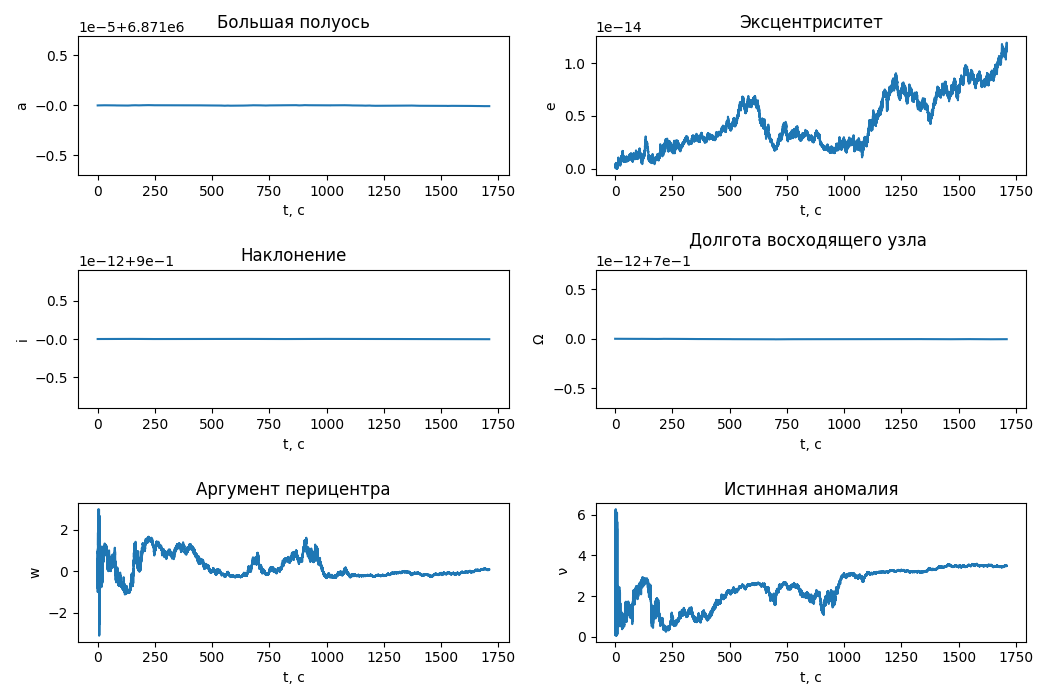
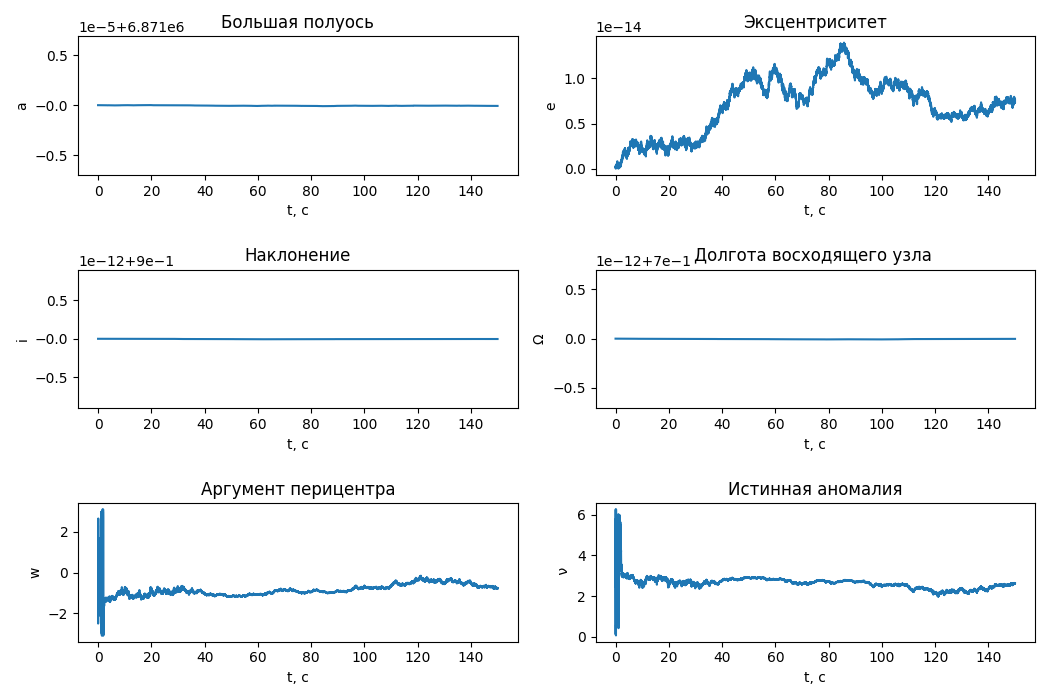
grafics added

diff --git a/no_flywheel/grafics.py b/no_flywheel/grafics.py
@@ -102,7 +102,29 @@ def start_plot(orbit: Orbit, rotation: Rotation, first_integrals: First_integral
     plot_subplot(326, orbit.result_t, orbit.result_nu, 'Истинная аномалия', 't, c', ' ν')
     save_and_close_plot(fig_elements, 'result/result_elements.png')
 
+    # Графики угловой скорости ССК относительно ОСК
+    fig_W_rel = plt.figure(figsize=(10.5, 7))
+    plot_subplot(221, rotation.result_t, rotation.result_W_rel[:, 0],
+                 'Проекция угловой скорости ССК относительно ОСК на Оx', 't, c', 'x')
+    plot_subplot(222, rotation.result_t, rotation.result_W_rel[:, 1],
+                 'Проекция угловой скорости ССК относительно ОСК на Оy', 't, c', 'y')
+    plot_subplot(223, rotation.result_t, rotation.result_W_rel[:, 2],
+                 'Проекция угловой скорости ССК относительно ОСК на Оz', 't, c', 'z')
+    save_and_close_plot(fig_W_rel, 'result/result_W_rel.png')
+
+    # Графики Кватерниона A (из ОСК в ССК)
+    fig_A = plt.figure(figsize=(10.5, 7))
+    plot_subplot(221, rotation.result_t, rotation.result_A[:, 0],
+                 'Скалярная часть кватерниона A(из ОСК в ССК)', 't, c', 'a')
+    plot_subplot(222, rotation.result_t, rotation.result_A[:, 1],
+                 'Векторная компонента i кватерниона A(из ОСК в ССК)', 't, c', 'i')
+    plot_subplot(223, rotation.result_t, rotation.result_A[:, 2],
+                 'Векторная компонента j кватерниона A(из ОСК в ССК)', 't, c', 'j')
+    plot_subplot(224, rotation.result_t, rotation.result_A[:, 3],
+                 'Векторная компонента k кватерниона A(из ОСК в ССК)', 't, c', 'k')
+    save_and_close_plot(fig_A, 'result/result_A.png')
+
     # Cтроим орбиту
-    orbit_plot(orbit=orbit)
+    #orbit_plot(orbit=orbit)
 
 

diff --git a/no_flywheel/src/rotation.py b/no_flywheel/src/rotation.py
@@ -8,6 +8,9 @@ class Rotation:
     result_Q = None
     result_t = None
 
+    result_W_rel = []
+    result_A = []
+
     def __init__(self, J: np.ndarray, Q0: Quaternion, W0: np.ndarray):
         """
         Конструктор класса, который инициализирует объект ориентации для углвого движения с заданными параметрами
@@ -26,8 +29,41 @@ class Rotation:
         Добавляет результаты расчетов.
         """
         self.result_t = t
-        self.result_Wx, self.result_Wy, self.result_Wz = y[:, 0:3].T
-        self.result_Q = y[:, 3:7]
+        self.result_Wx, self.result_Wy, self.result_Wz = y[:, 6:9].T
+        self.result_Q = y[:, 9:13]
+
+        self.result_W_rel = np.zeros((len(t), 3))
+        self.result_A = np.zeros((len(t), 4))
+        for i in range(len(t)):
+            r = y[i][0:3]
+            v = y[i][3:6]
+            W_abs_cck = y[i][6:9]
+            Q = Quaternion(y[i][9:13])
+
+            W_ref_ock = np.array([0, np.linalg.norm(np.cross(r, v) / (np.linalg.norm(r) ** 2)), 0])
+
+            # Ищем кватернион B (из ИСК в ОСК):
+            e3 = r / np.linalg.norm(r)
+            e2 = np.cross(r, v) / np.linalg.norm(np.cross(r, v))
+            e1 = np.cross(e2, e3)
+            K_matrix = np.array([e1, e2, e3])
+            B = Quaternion(matrix=K_matrix).conjugate
+
+            # Кватернион A (из ОСК в ССК) и Wrel в ssk:
+            A = B.conjugate * Q
+            W_rel_cck = W_abs_cck - A.conjugate.rotate(W_ref_ock)
+
+            self.result_W_rel[i] = W_rel_cck
+            self.result_A[i] = A.elements
+
+
+
+
+
+
+
+
+
 
 
 

diff --git a/no_flywheel/src/control.py b/no_flywheel/src/control.py
@@ -21,7 +21,7 @@ def quaternion_between_vectors(v1: np.ndarray, v2: np.ndarray):
 
 
 class Control:
-    W_rel_isk_last = W_rel_isk_now = 0
+    W_ref_isk_last = W_ref_isk_now = 0
     t_last = t_now = 0
     counter = 0
     U = np.array([0, 0, 0])
@@ -61,7 +61,6 @@ class Control:
         if not self.check_every_fourth_call():
             return self.U
 
-        self.t_now = t
         r = y[0:3]
         v = y[3:6]
         W_abs_cck = y[6:9]
@@ -79,13 +78,15 @@ class Control:
         # Кватернион A (из ОСК в ССК) и Wrel в ssk:
         A = B.conjugate * Q
         W_rel_cck = W_abs_cck - A.conjugate.rotate(W_ref_ock)
-        print(W_rel_cck)
+
 
         # считаем численно производную требуемой углвой скорости в сск
-        self.W_rel_isk_now = np.cross(r, v) / (np.linalg.norm(r) ** 2)
-        dotW_ref_ick = (self.W_rel_isk_now - self.W_rel_isk_last) / (self.t_now - self.t_last)
+        self.W_ref_isk_now = np.cross(r, v) / (np.linalg.norm(r) ** 2)
+        self.t_now = t
+        dotW_ref_ick = (self.W_ref_isk_now - self.W_ref_isk_last) / (self.t_now - self.t_last)
         dotW_ref_cck = Q.conjugate.rotate(dotW_ref_ick)
         self.t_last = t
+        self.W_ref_isk_last = self.W_ref_isk_now
 
         q = A.vector
 

diff --git a/no_flywheel/main_no_flywheel.py b/no_flywheel/main_no_flywheel.py
@@ -19,18 +19,18 @@ orbit = Orbit(a=a, e=e, i=i, omega=omega, w=w, nu=nu, mu=mu)
 
 J = np.diag([2, 3, 4])  # Тензор инерции
 Q0 = Quaternion(1, 0, 1, 0).normalised  # ориентация ССK относительно ИСК в нач момент времени
-W0 = np.array([0.01, 0.02, 0.03])  # угловая относительная сокрость начальная в ССk
+W0 = np.array([0.06, 0.07, 0.045])  # угловая относительная сокрость начальная в ССk
 rotation = Rotation(J=J, Q0=Q0, W0=W0)
 
-Kw = 1.0
-Kq = 1.0
+Kw = 1.4
+Kq = 0.5
 control = Control(Kw=Kw, Kq=Kq, J=J)
 
 first_integrals = First_integrals(J=J, mu=mu)
 
 # Моделируем
-h = 0.1  # Шаг интегрирования по времени
-n = 3 * 5700  # Количество шагов
+h = 0.01  # Шаг интегрирования по времени
+n = 15000  # Количество шагов
 simulation = Simulation(orbit=orbit, rotation=rotation, control=control, first_integrals=first_integrals)
 simulation.start(h=h, n=n)
 

diff --git a/no_flywheel/simulation.py b/no_flywheel/simulation.py
@@ -95,7 +95,7 @@ class Simulation:
 
         # добавляем результаты по своим классам
         self.orbit.add_results(t=t, y=y[:, 0:6])
-        self.rotation.add_results(t=t, y=y[:, 6:13])
+        self.rotation.add_results(t=t, y=y)
 
         # Считаем первые интегралы
         self.first_integrals.calculate(t=t, y=y)
